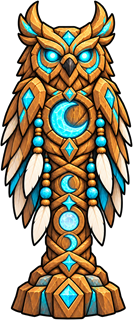
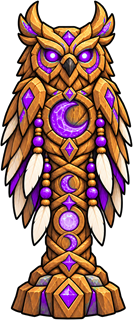
Release 0.224: Totemist row of five, totem colours, sanctification odds, hero model fix
- Totemist: 2 more totem positions and a second Hawk and Bear planted at fight
  start (decision 682, rules 93).
- Totem pictures recoloured so each glows its own colour (Hawk red, Bear cyan,
  Thunderbird yellow, Elder green, Owl violet); chip border to match.
- How to Play odds: Sanctification section (basin odds from the new
  SANCTIFY_SAME_PCT/SANCTIFY_UP_PCT constants, Loaded Dice by tier).
- HeroModel always clears its live flag on cleanup, so a hero without a rig
  shows its picture after switching away from an animated one.

diff --git a/apps/web/src/app/LearnOdds.tsx b/apps/web/src/app/LearnOdds.tsx
@@ -42,6 +42,11 @@ import {
   PRICE,
   REMOVE_PRICE,
   eventOffers,
+  diceOdds,
+  GAMBLER_TIER,
+  MAX_TIER,
+  SANCTIFY_SAME_PCT,
+  SANCTIFY_UP_PCT,
 } from '@sr/campaign';
 import { PRIZE_MARK } from '../trials/prizes';
 import { WithArrows } from '../ui/Arrow';
@@ -221,6 +226,47 @@ export function LearnOdds() {
         A few events only come up in the right state (a buried map you kept, low HP, a lot of
         shards, a Boon to give up), so the real share you meet can differ a little.
       </p>
+
+      <h3>Sanctification</h3>
+      <p>
+        A sanctified card has its numbers (damage, Barrier and the like) 25% stronger or 25% weaker,
+        for good. Its cost never changes. A sanctified card cannot be rolled again or engraved, but
+        it can still be removed. There are two ways to sanctify:
+      </p>
+      <ul>
+        <li>
+          <b>The white-fire basin</b> (an event; once per run, and only for a deck with no sanctified
+          card yet) rolls every card with numbers on its own: {SANCTIFY_SAME_PCT}% are left as they
+          were, {Math.round(((100 - SANCTIFY_SAME_PCT) * SANCTIFY_UP_PCT) / 100)}% become 25%
+          stronger and {Math.round(((100 - SANCTIFY_SAME_PCT) * (100 - SANCTIFY_UP_PCT)) / 100)}%
+          become 25% weaker. You do not choose which cards.
+        </li>
+        <li>
+          <b>Loaded Dice</b> (a Gambler&apos;s Shrine blessing, from Tier {GAMBLER_TIER}) roll one
+          card you choose: always up or down, never unchanged. The chance it goes up rises with the
+          tier:
+        </li>
+      </ul>
+      <table className="learn__table">
+        <thead>
+          <tr>
+            <th>Tier</th>
+            <th>25% stronger</th>
+            <th>25% weaker</th>
+          </tr>
+        </thead>
+        <tbody>
+          {Array.from({ length: MAX_TIER - GAMBLER_TIER + 1 }, (_, i) => GAMBLER_TIER + i).map(
+            (t) => (
+              <tr key={t}>
+                <th scope="row">{t}</th>
+                <td>{diceOdds(t)}%</td>
+                <td>{100 - diceOdds(t)}%</td>
+              </tr>
+            ),
+          )}
+        </tbody>
+      </table>
 
       <h3>Elite Event: Spin To Win</h3>
       <p>

diff --git a/apps/web/src/app/patchNotes.ts b/apps/web/src/app/patchNotes.ts
@@ -46,6 +46,39 @@ export const KIND_LABEL: Record<NoteKind, string> = {
 
 export const PATCH_NOTES: PatchNote[] = [
   {
+    version: '0.224.0',
+    date: '2026-11-07',
+    title: 'A row of five, and totems you can tell apart',
+    summary:
+      'The Totemist keeps five totems, each totem glows its own colour, the odds page explains sanctification, and models show again after switching heroes.',
+    notes: [
+      {
+        kind: 'balance',
+        title: 'Totemist',
+        hero: 'shaman',
+        text: 'The Totemist has 2 more totem positions and starts each fight with a second Hawk and Bear behind the Shaman’s Hawk, Bear and Thunderbird: a row of five.',
+      },
+      {
+        kind: 'changed',
+        title: 'Totem colours',
+        hero: 'shaman',
+        text: 'Each totem glows its own colour in battle so they are easy to tell apart: the Hawk red, the Bear cyan, the Thunderbird yellow, the Elder Tree green and the Moon Owl violet.',
+      },
+      {
+        kind: 'new',
+        title: 'Sanctification odds',
+        text: 'How to Play > Odds & numbers now shows the chances for sanctifying: the white-fire basin and the Gambler’s Shrine’s Loaded Dice, tier by tier.',
+      },
+      {
+        kind: 'fixed',
+        title: 'Hero models',
+        text: 'Switching from the Knight or Rogue to another hero no longer leaves the hero’s picture blank.',
+      },
+    ],
+    heads:
+      'Older unfinished battles restart from their encounter checkpoint under the updated rules, without a Resolve charge.',
+  },
+  {
     version: '0.223.0',
     date: '2026-11-07',
     title: 'Clear times and a fair spin',

diff --git a/packages/campaign/src/events.ts b/packages/campaign/src/events.ts
@@ -43,6 +43,10 @@ const bonfireHeal = (id: string): number => {
   return rarity === 'rare' || rarity === 'legendary' ? 20 : rarity === 'uncommon' ? 12 : 6;
 };
 
+/** The white-fire basin (sanctify): the share of cards left as they were, and of the rest, the share that rise 25% (the others fall). */
+export const SANCTIFY_SAME_PCT = 20;
+export const SANCTIFY_UP_PCT = 55;
+
 export const EVENTS: EventDef[] = [
   {
     id: 'cache',
@@ -500,11 +504,11 @@ export function resolveEvent(
         if (!base || !canRoll(base)) return id;
         // a fifth of the cards are untouched; of the rest, slightly kind to the player: 55% go up
         // (only numbers change: a card's cost is never rolled)
-        if (nextInt(r.rng, 100) < 20) {
+        if (nextInt(r.rng, 100) < SANCTIFY_SAME_PCT) {
           same++;
           return id;
         }
-        const dir = nextInt(r.rng, 100) < 55 ? 1 : -1;
+        const dir = nextInt(r.rng, 100) < SANCTIFY_UP_PCT ? 1 : -1;
         if (dir > 0) up++;
         else down++;
         return rolledId(id, dir);

diff --git a/packages/content/src/v2/ascendancies.ts b/packages/content/src/v2/ascendancies.ts
@@ -10,6 +10,7 @@ import {
   mana,
   on,
   per,
+  plant,
   raise,
   scaled,
   status,
@@ -237,9 +238,13 @@ export const ASCENDANCIES: readonly Ascendancy[] = [
     'shaman',
     'Totemist',
     'Cultivating totems',
-    'Start each fight with 1 Spirit and 8 Barrier. End your turn with at least two totems standing, without commanding or pushing any out that turn, to gain 1 Spirit.',
+    // (two more totem positions, and a second Hawk and Bear planted behind the class's three: a row of five, Robert 2026-11-07)
+    'You have 2 more totem positions, and start each fight with a second Hawk and Bear behind your other totems. Start each fight with 1 Spirit and 8 Barrier. End your turn with at least two totems standing, without commanding or pushing any out that turn, to gain 1 Spirit.',
     {
       fightStart: [
+        { op: 'totemSlot', amount: 2 },
+        plant('hawk'),
+        plant('bear'),
         status('spirit', 1),
         barrier(8),
         { op: 'discipline', rule: { kind: 'cultivation', minimum: 2, spirit: 1 } },

diff --git a/packages/content/src/v2/ascendancyScaling.test.ts b/packages/content/src/v2/ascendancyScaling.test.ts
@@ -211,6 +211,12 @@ describe('distinct late-game Ascendancy disciplines', () => {
     expect(pick.type).toBe('pick');
     expect(damage(applyAction(db, s, pick))).toEqual([13]);
   });
+  it('Totemist starts with five totem positions, all planted: Hawk, Bear, Thunderbird, Hawk, Bear', () => {
+    const s = fight('shaman', 'totemist');
+    expect(s.sides.a.totems).toEqual(['hawk', 'bear', 'thunderbird', 'hawk', 'bear']);
+    // (the plain Shaman keeps three)
+    expect(fight('shaman', 'shaman').sides.a.totems).toEqual(['hawk', 'bear', 'thunderbird']);
+  });
   it('Totemist grows Spirit when preserving the row, but not after a command', () => {
     let s = fight('shaman', 'totemist');
     const initial = hero(s).statuses.spirit ?? 0;

diff --git a/packages/pvp/src/protocol.ts b/packages/pvp/src/protocol.ts
@@ -98,7 +98,8 @@ export interface Entry {
 // 90: Shaman starts with a third Thunderbird; basic Hawk's Dive replaces one starting Strike.
 // 91: a main enemy (1.5x every other starting enemy's Max HP) starts at the back, behind its minions.
 // 92: every Drunkard card that fires is a gun (shells included); Gun Oil 2 Barrier, Bandolier 3 (#681).
-export const RULES_VERSION = 92;
+// 93: the Totemist adds 2 totem positions and starts with a second Hawk and Bear (#682).
+export const RULES_VERSION = 93;
 
 /** Who you are playing, before a game starts: their name and badges, not their deck or Riftwalker. */
 export type FoeCard = Pick<Entry, 'name' | 'trophies' | 'rank'>;

diff --git a/apps/web/src/art/HeroModel.tsx b/apps/web/src/art/HeroModel.tsx
@@ -90,7 +90,8 @@ export function HeroModel(props: {
         s.canvas.remove();
         s.dispose();
       }
-      if (!gone) setLive(false);
+      // (always, the cleanup included: switching to a hero with no rig keeps this component, and its picture must show again)
+      setLive(false);
     };
 
     void import('../fight/heroSprite').then(async (rigs) => {

diff --git a/apps/web/src/fight/fight.css b/apps/web/src/fight/fight.css
@@ -2914,9 +2914,10 @@ img.intent__pic {
   border-style: dashed;
   opacity: 0.6;
 }
+/* (each totem's colour matches the glow of its picture: Hawk red, Bear cyan, Elder green, Thunderbird yellow, Owl violet) */
 .totem--hawk {
-  color: #ffd08a;
-  border-color: #c98a2c;
+  color: #ffb0a8;
+  border-color: #d2423a;
 }
 .totem--bear {
   color: #cfe9e2;

diff --git a/packages/campaign/src/index.ts b/packages/campaign/src/index.ts
@@ -93,7 +93,7 @@ export {
   type ShrineChoice,
 } from './run';
 export { makePrelude, describeEffect, preludeCatalogue } from './preludes';
-export { EVENTS } from './events';
+export { EVENTS, SANCTIFY_SAME_PCT, SANCTIFY_UP_PCT } from './events';
 export { RUN_SAVE_VERSION, parseRun, serializeRun } from './save';
 export {
   ELITE_EVENTS,

diff --git a/docs/DECISIONS.md b/docs/DECISIONS.md
@@ -1316,3 +1316,10 @@ Robert: players are confused about which cards count as guns for The Twelve-Gaug
 - **Guns:** Old Twelve Gauge, Buckshot Shell (now both a shell and a gun), Birdshot, Slug Round, Shotgun Wedding, Sawn-Off, Boomstick, The Last Shell, Spray and Pray, Shell Shock, Tin Can Alley, and their upgrades. Melee with the gun (Pistol Whip, Buttstroke) is not a shot. Gun cards also use the shotgun's firing animation.
 - **Badge:** a red shotgun-shell badge in the card's top right, the same slot as the Shaman's elements and the Spellblade's Swords and Spells; its tip says what a gun is and which cards answer one.
 - **Balance:** shells are free and plentiful (Ammo Dump 6, Rolling Thunder and One More Round 2 a turn), so Gun Oil (common) would have beaten Bandolier (uncommon, 2 Barrier per shell): Gun Oil 3 -> 2 Barrier per gun (upgraded 4 -> 3), Bandolier 2 -> 3 per shell (upgraded 3 -> 4). The Twelve-Gauge Opera (rare, 2 Mana: Precision 6, then Precision 1 and 3 Barrier per gun) is unchanged; with shells it is roughly Hair Trigger and Bandolier+ in one rare. No simulations.
+
+## 682 - The Totemist keeps a row of five (2026-11-07)
+
+Robert: give the Totemist Ascendancy 2 more totem positions and 2 more starting totems. Decision: at the start of each fight the Totemist adds 2 positions (`totemSlot`, after the class's 3) and plants a second Hawk and a second Bear behind the class's Hawk, Bear and Thunderbird, so the row starts Hawk, Bear, Thunderbird, Hawk, Bear. The kinds were not specified: Hawk and Bear (one hit, one Barrier) was the simplest reading, and is open to Robert's change. The rest of the Totemist (1 Spirit, 8 Barrier, Cultivation) is unchanged.
+- **Price (docs/14_CARD_COSTING.md, the totem cycle):** 2 positions ~6; the Hawk and Bear passives ~4.5 a turn (about 20 over a fight), their acts when commanded or pushed out ~10 at x0.6; and every Spirit now lifts five totems, not three (~5/3 the value of each Spirit). Roughly +35 to +45 points a fight: a large buff, well past a typical Ascendancy line. Cultivation's "two totems standing" is now nearly automatic.
+- **Caution:** the Hawk's passive gives Primed only when the hero is not already Primed, so a second Hawk's passive mostly overlaps the first; its value is in its act. A Thunderbird or a random non-rare totem would add more.
+- No simulations; checked by a scenario test (ascendancyScaling.test.ts).

diff --git a/CLAUDE.md b/CLAUDE.md
@@ -1,3 +1,7 @@
+# Release approved 0.224.0 / rules 93 (2026-11-07; decision 682)
+
+Robert explicitly approves pushing/deploying: Totemist 2 extra totem positions and a second Hawk and Bear at fight start, per-totem glow colours, the Sanctification odds section on How to Play, and the hero-model fix when switching away from an animated hero. Website/server and matching Windows updater. Future changes need fresh release approval.
+
 # Release approved 0.223.0 / rules 92 (2026-11-07)
 
 Robert explicitly approves pushing/deploying: chance reels shown before a fight they lead into (and not replayed after a won card pick), Campaign leaderboard Time column for completed runs (server play_ms column, client sends the run clock), and a target icon for Precision. No rules change. Website/server and matching Windows updater. Future changes need fresh release approval.

diff --git a/CHANGELOG.md b/CHANGELOG.md
@@ -1,3 +1,10 @@
+## 0.224.0 - 2026-11-07
+
+- Totemist: 2 more totem positions and a second Hawk and Bear planted at the start of each fight, a row of five (DECISIONS #682; rules 93).
+- Totems glow their own colour in battle: Hawk red, Bear cyan, Thunderbird yellow, Elder Tree green, Moon Owl violet.
+- How to Play > Odds & numbers: a Sanctification section (the white-fire basin's odds, and Loaded Dice by tier).
+- Fixed: switching from a hero with an animated model to one without left the hero picture blank.
+
 ## 0.223.0 - 2026-11-07
 
 - Campaign leaderboard: a Time column shows how long each completed run took to beat the campaign, by its run clock (the server stores the clock with run reports; earlier victories have no time).
